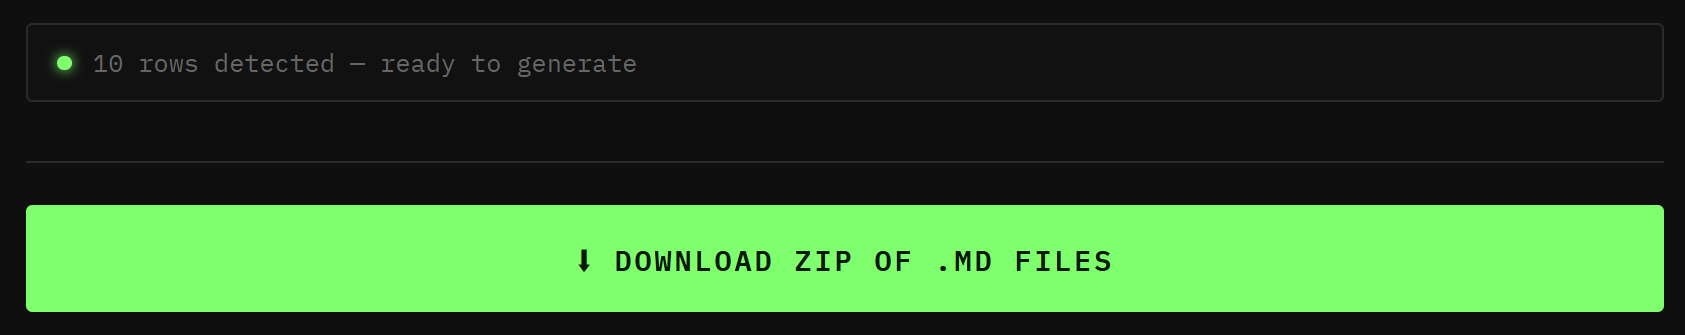
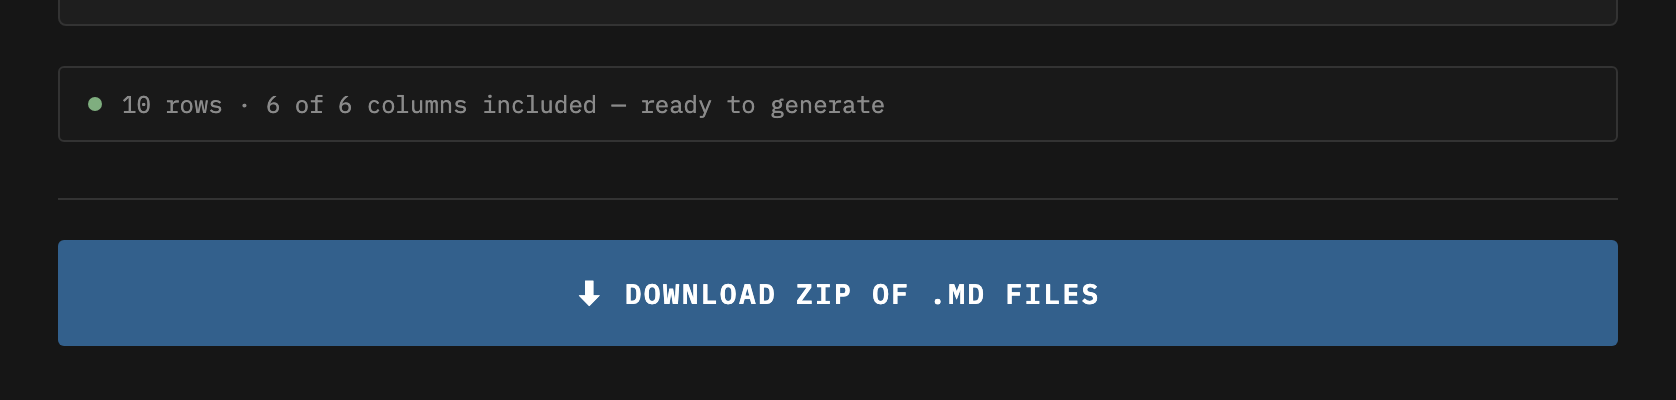
Refresh screenshot 04 and add GitHub Pages link to README
- Recapture status bar + download button in the new muted theme; fix
  the alt text (it was described as a file-explorer shot but never was)
- Add the hosted URL up top, with credit to @user whose
  fork had Pages enabled first
- Fix stale File Structure and Offline Setup sections (styles.css no
  longer exists; jszip is already bundled locally)

diff --git a/README.md b/README.md
@@ -4,6 +4,8 @@ A lightweight, offline-capable browser tool that converts CSV or TSV spreadsheet
 
 No install. No account. No internet required once saved locally. Open the HTML file and go.
 
+**🌐 Use it online:** **[grub-basket.github.io/CSV-to-Obsidian-Properties-for-Bases](https://grub-basket.github.io/CSV-to-Obsidian-Properties-for-Bases/)** — no download needed. Hat tip to [@fork-archive-hub](https://github.com/fork-archive-hub), whose fork was quietly serving this on GitHub Pages before the original repo got around to it.
+
 > **Need to go the other way?** Try the companion tool **[Bases to CSV](https://bases-to-csv.netlify.app/)** — a web app that takes a folder of Markdown files and exports a single `.csv` you can open back in Excel. Handy as an escape hatch if Obsidian ever breaks, since an Obsidian Base is really just a YAML view/query definition — the actual data lives in each note's frontmatter, not in the Base itself — so there's no built-in way to get a plain spreadsheet back out.
 
 ---
@@ -20,7 +22,7 @@ No install. No account. No internet required once saved locally. Open the HTML f
 ![Screenshot: Preview box showing color-coded YAML frontmatter for the first row](screenshots/03-preview.png)
 
 ### 4. Output — a ZIP of .md files ready to drop into your vault
-![Screenshot: File explorer showing the unzipped .md files](screenshots/04-output-files.png)
+![Screenshot: Status bar reporting rows and included columns, above the download button](screenshots/04-output-files.png)
 
 ---
 
@@ -45,16 +47,19 @@ No install. No account. No internet required once saved locally. Open the HTML f
 
 ## File Structure
 
-Keep these three files in the same folder:
+Keep these files in the same folder:
 
 ```
 obsidian-note-generator/
 ├── obsidian-note-generator.html   ← open this in your browser
-├── styles.css                     ← stylesheet
+├── converter.js                   ← the conversion logic
+├── theme-switch.js                ← dark/light theme toggle
+├── styles-dark.css                ← dark theme
+├── styles-light.css               ← light theme
 └── jszip.min.js                   ← bundled locally for offline use
 ```
 
-To go fully offline, also remove the Google Fonts `@import` line at the top of `styles.css`. The fallback fonts are `monospace` and `sans-serif` (Courier New / Arial on Windows, Menlo / Helvetica on Mac).
+To go fully offline, also remove the Google Fonts `@import` line at the top of both CSS files. The fallback fonts are `monospace` and `sans-serif` (Courier New / Arial on Windows, Menlo / Helvetica on Mac).
 
 ---
 
@@ -119,20 +124,9 @@ If the value can't be parsed, it's passed through as-is rather than corrupted.
 
 ## Offline Setup
 
-1. Download `jszip.min.js` from:
-   ```
-   https://cdnjs.cloudflare.com/ajax/libs/jszip/3.10.1/jszip.min.js
-   ```
-2. Place it in the same folder as the HTML file.
-3. In `obsidian-note-generator.html`, change:
-   ```html
-   <script src="https://cdnjs.cloudflare.com/ajax/libs/jszip/3.10.1/jszip.min.js"></script>
-   ```
-   to:
-   ```html
-   <script src="jszip.min.js"></script>
-   ```
-4. Optionally remove the `@import` line at the top of `styles.css` to drop the Google Fonts dependency too.
+The repo already ships `jszip.min.js` locally and the HTML references it with a relative path, so offline use works out of the box: download/clone the folder, open `obsidian-note-generator.html`, done.
+
+Optionally remove the Google Fonts `@import` line at the top of `styles-dark.css` and `styles-light.css` to drop the last external dependency (fonts fall back to your system's monospace / sans-serif).
 
 ---
 